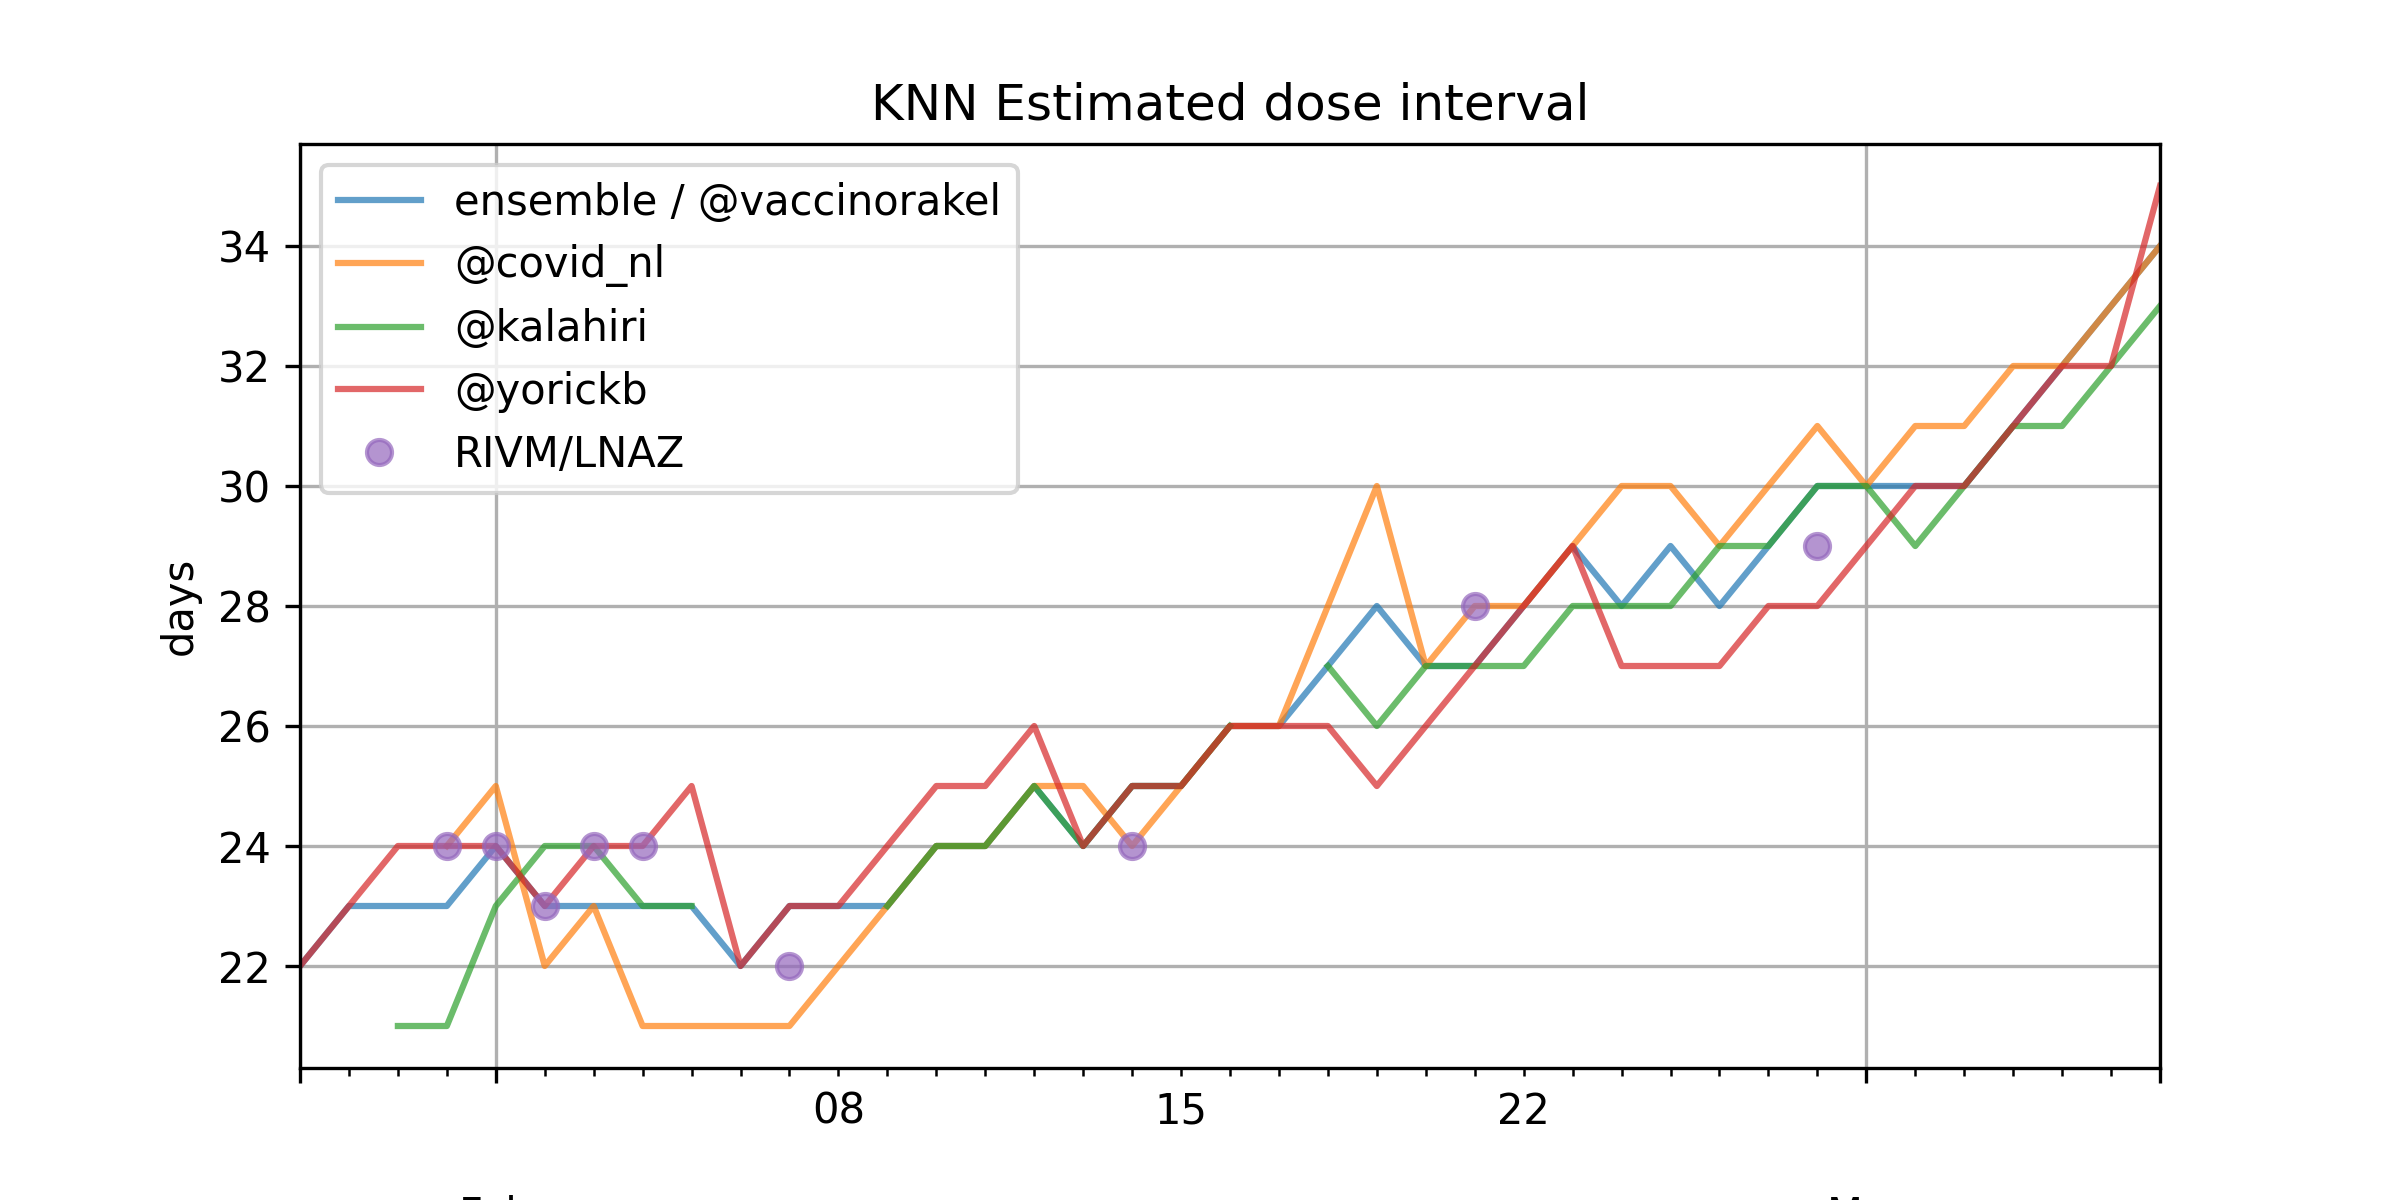
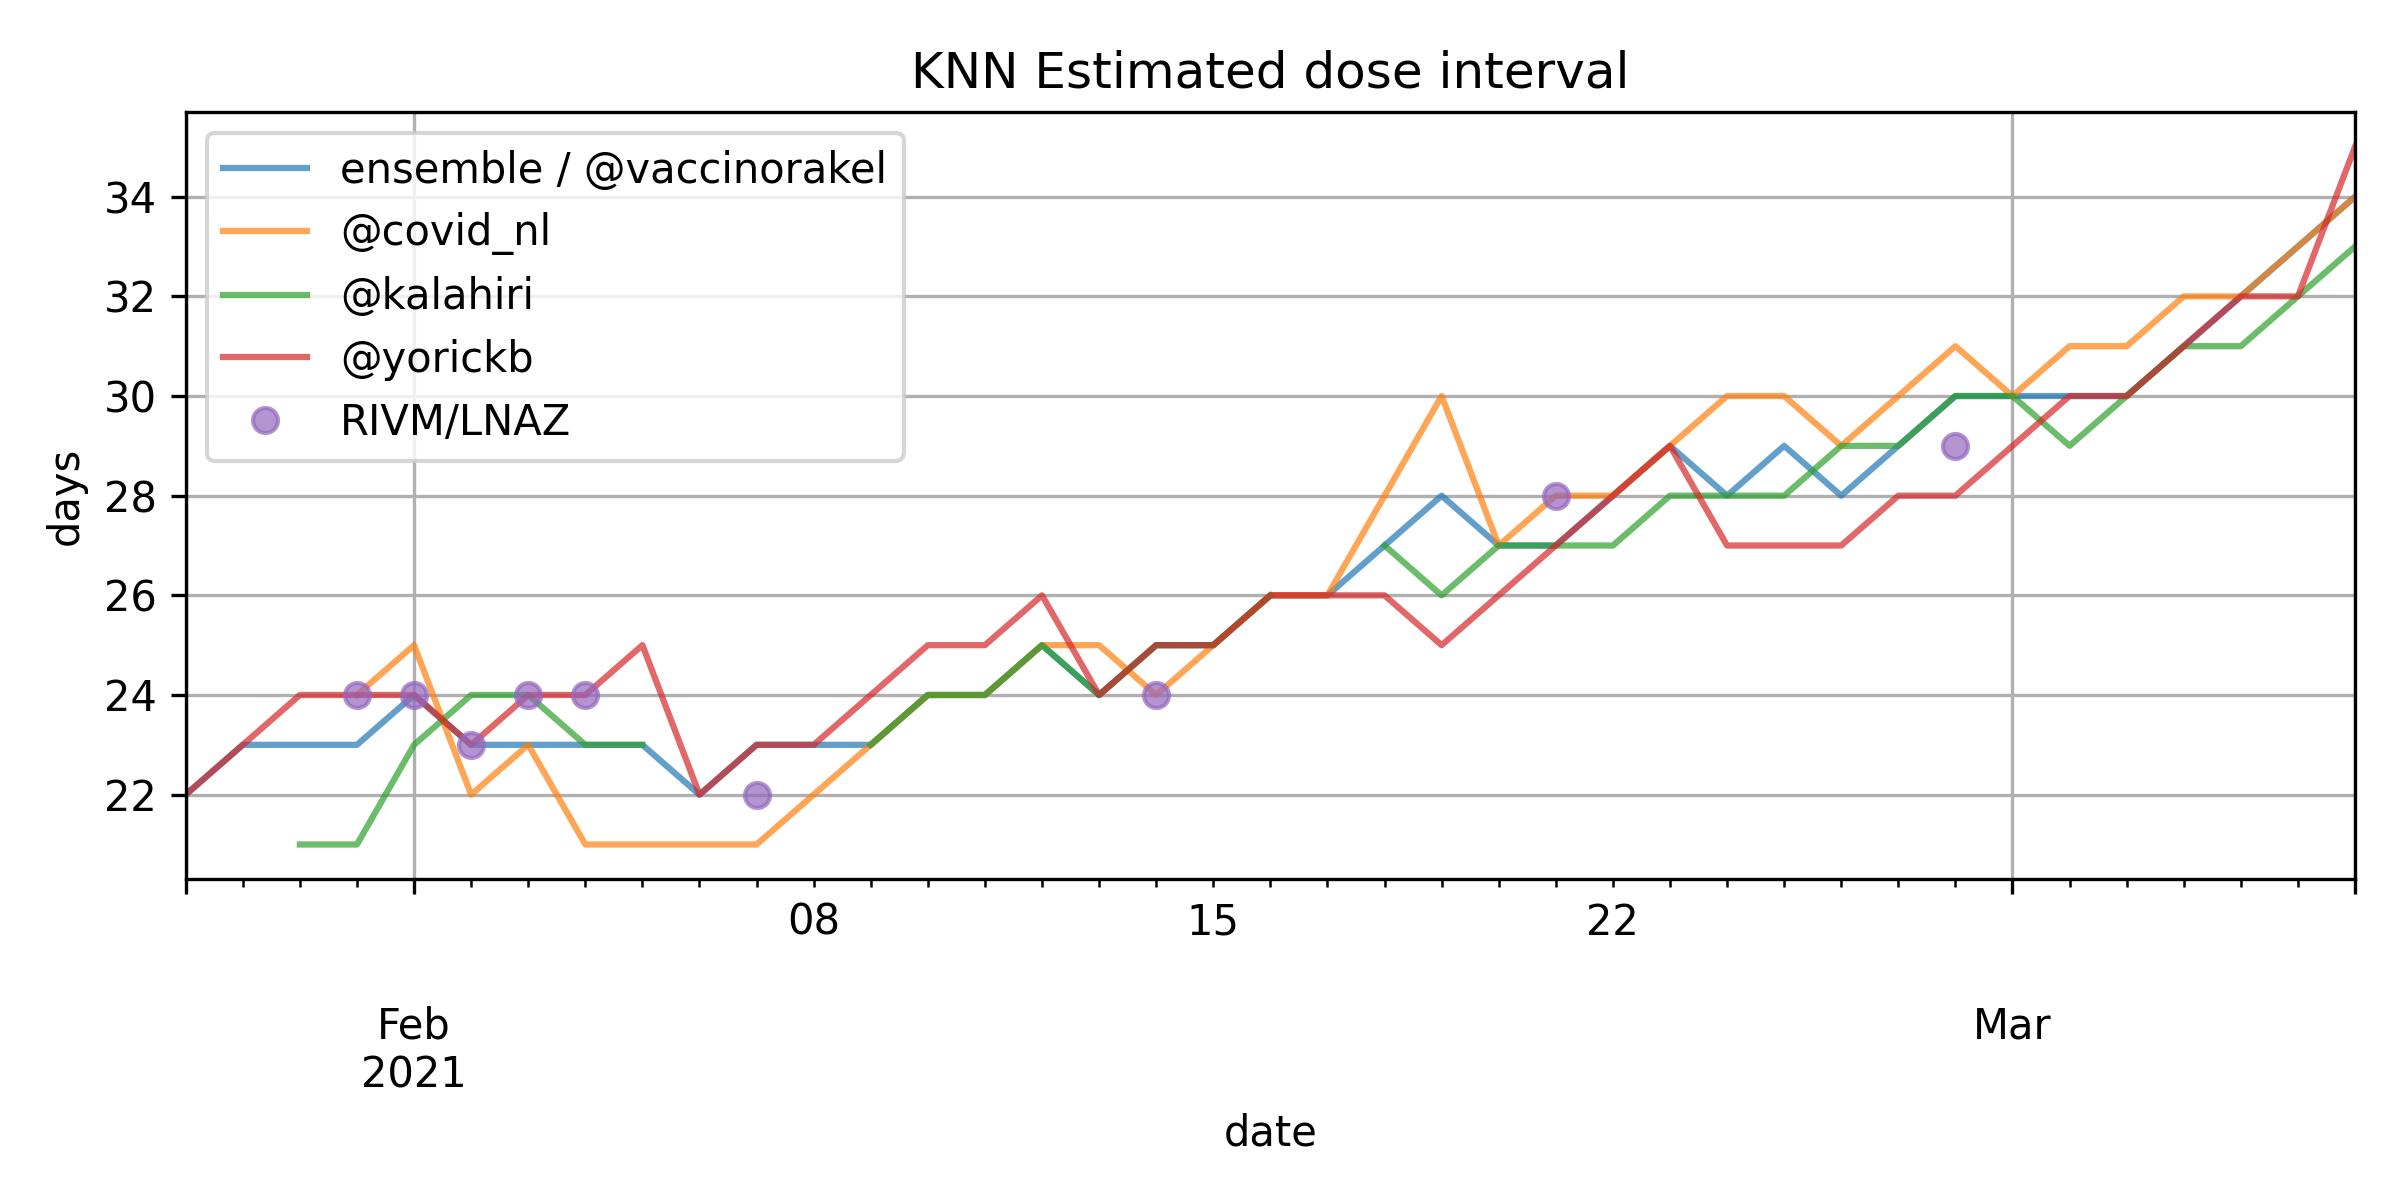
Small fix to chart, prevents text cut-off

diff --git a/src/estimate_dose_interval.py b/src/estimate_dose_interval.py
@@ -71,4 +71,6 @@ ax = df_intervals.plot(grid=True, style=style, figsize=(8,4), alpha=.7)
 ax.set_title('KNN Estimated dose interval')
 ax.set_ylabel('days')
 
-ax.get_figure().savefig('data/estimated_dose_interval.png', dpi=300)
+fig = ax.get_figure()
+fig.tight_layout()
+fig.savefig('data/estimated_dose_interval.png', dpi=300)
